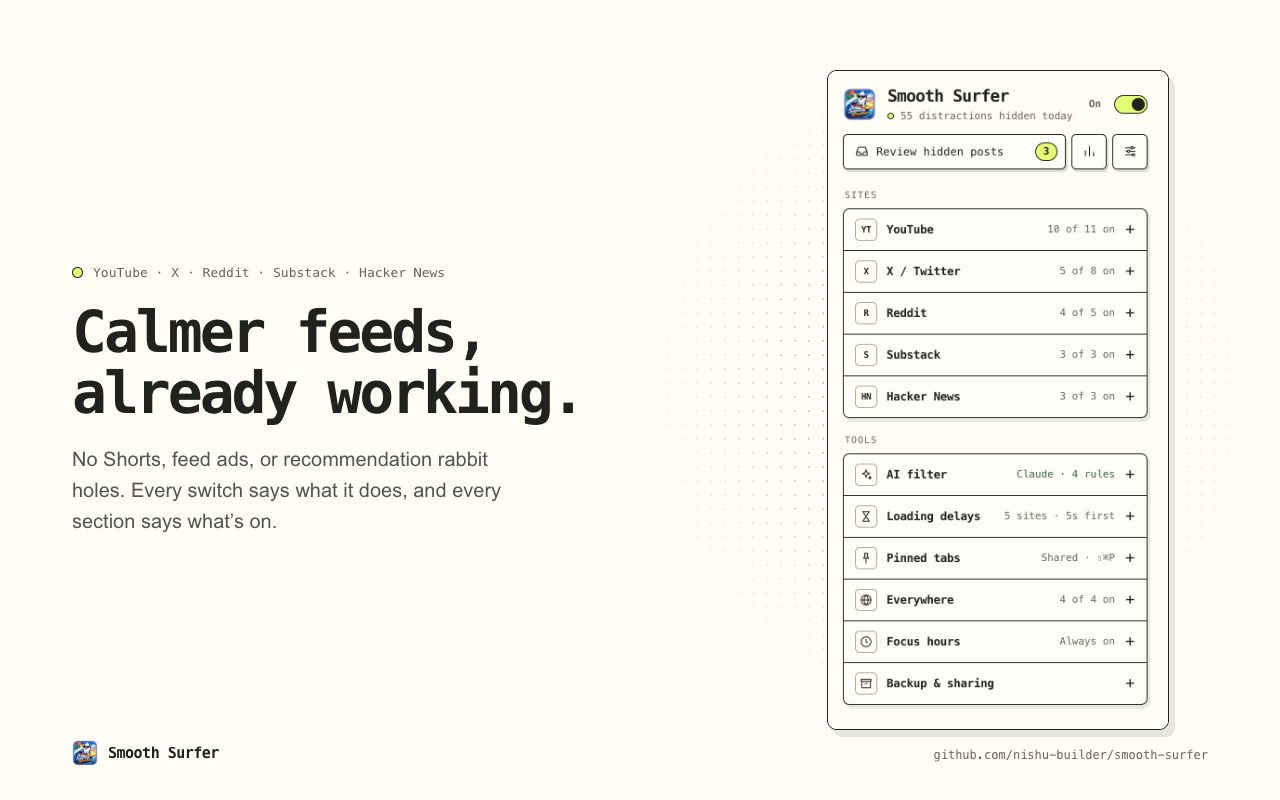
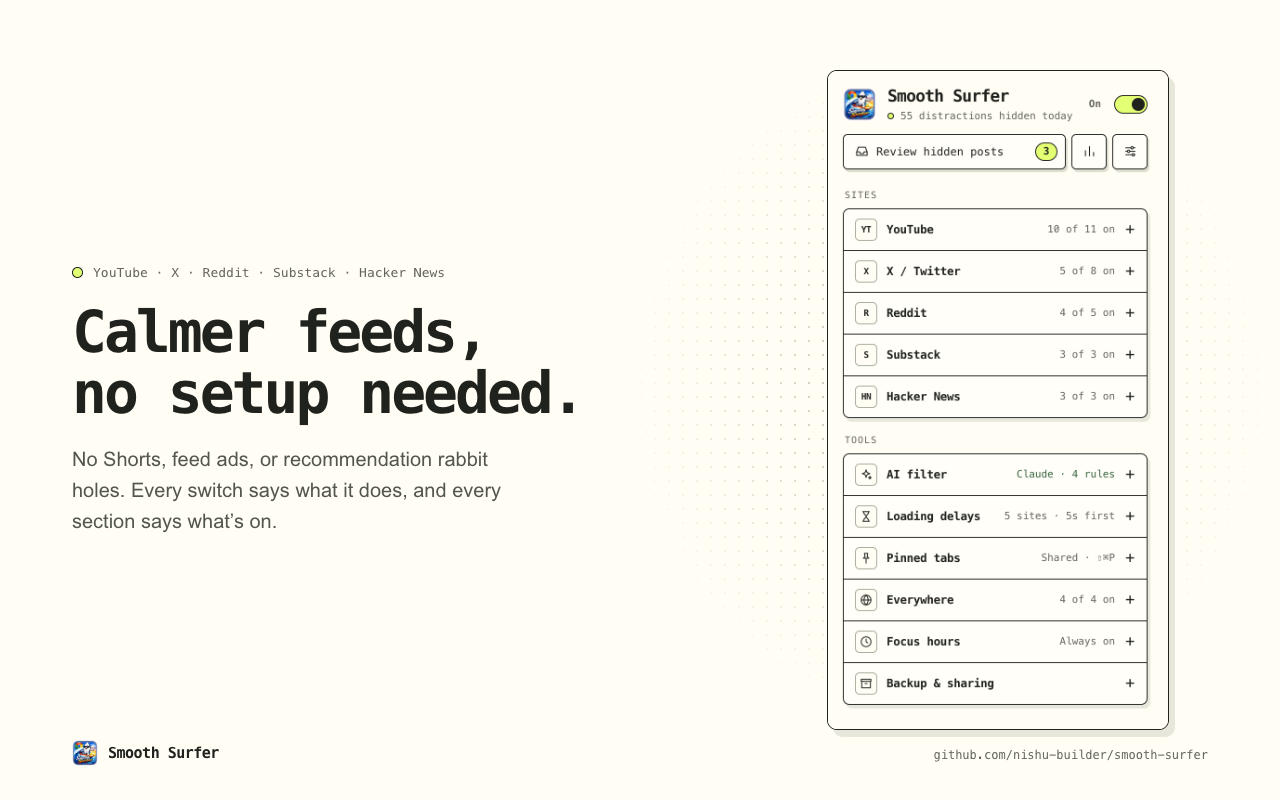
Say no setup needed in store graphics instead of already working
"Already working" reads as post-install copy; store visitors haven't
installed yet. The welcome page keeps it.

Changed region(s): [[0.0625, 0.4688, 0.4375, 0.5312]]

diff --git a/docs/store-listing.md b/docs/store-listing.md
@@ -43,7 +43,7 @@ https://github.com/nishu-builder/smooth-surfer
 **Screenshots** (1280×800, in this order, from [store-assets/](store-assets/);
 regenerate with `node scripts/capture-store-assets.mjs`):
 
-1. `01-overview.png`: Calmer feeds, already working.
+1. `01-overview.png`: Calmer feeds, no setup needed.
 2. `02-ai-filter.png`: Hide posts you'd rather not see.
 3. `03-hidden-posts.png`: Check every call.
 4. `04-loading-delay.png`: A pause before habit sites.
